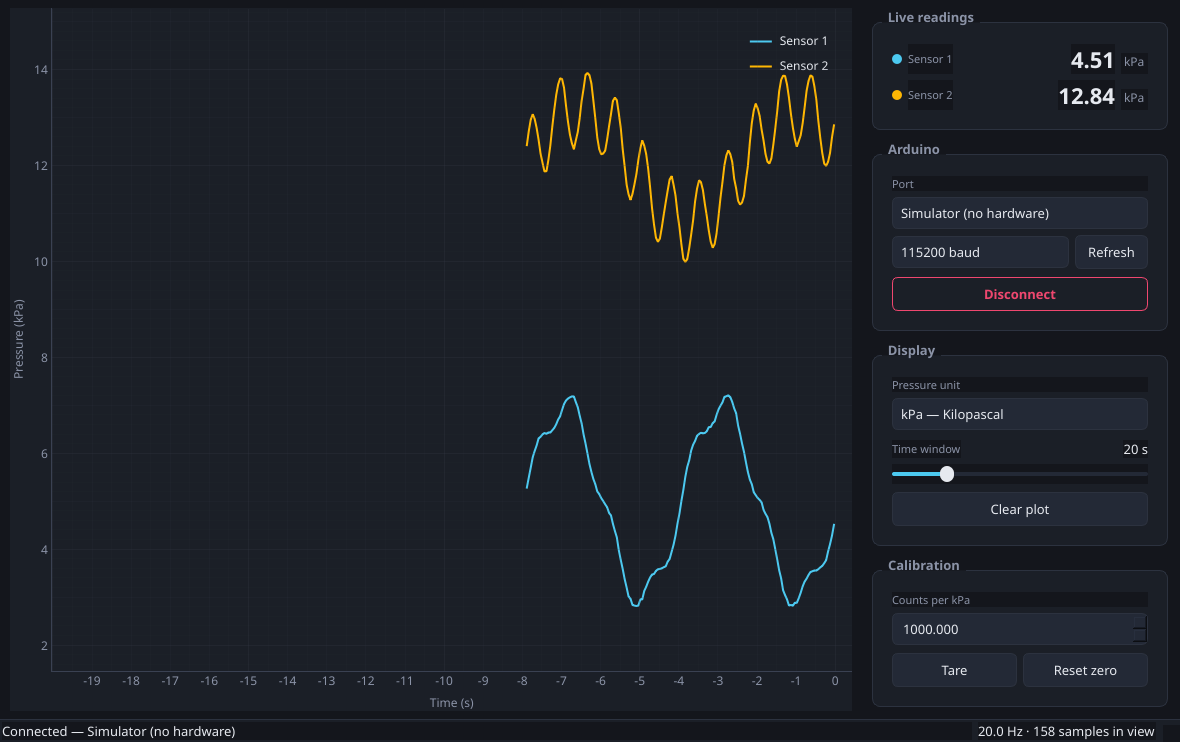
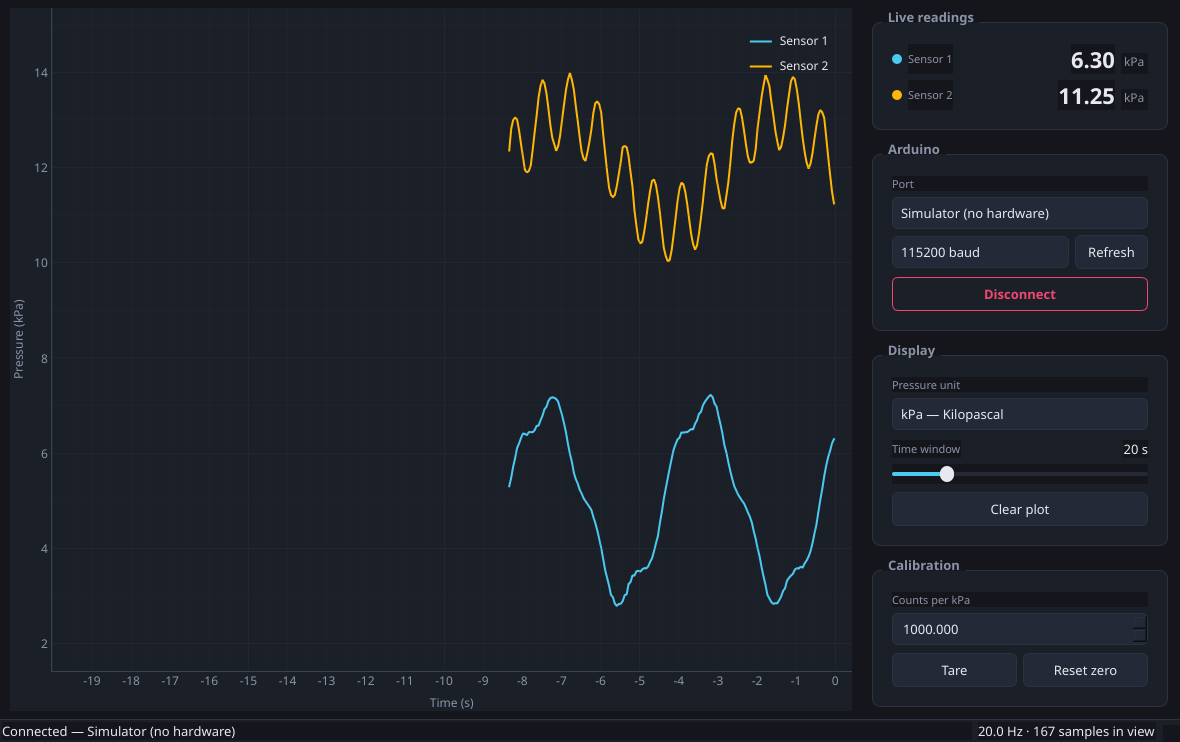
Fix axis labelling and y range across units
pyqtgraph's automatic SI prefixes turned the axis title into 'kkPa', and the
minimum y span was applied in display units, so in atmospheres its padding
swamped the signal.

diff --git a/pressure_monitor/ui/main_window.py b/pressure_monitor/ui/main_window.py
@@ -17,7 +17,7 @@ from ..buffers import RollingBuffer
 from ..calibration import Calibration
 from ..reader import SampleReader
 from ..sources import available_ports, create_source
-from ..units import DEFAULT_UNIT
+from ..units import DEFAULT_UNIT, PressureUnit
 from .control_panel import (
     DEFAULT_BAUD_RATE,
     DEFAULT_WINDOW_S,
@@ -156,8 +156,8 @@ class MainWindow(QMainWindow):
         self._set_state("Zero point reset to raw counts")
         self._redraw()
 
-    def _on_unit_changed(self, unit: object) -> None:
-        self._plot.set_unit(unit)  # type: ignore[arg-type]
+    def _on_unit_changed(self, unit: PressureUnit) -> None:
+        self._plot.set_unit(unit)
         self._redraw()
 
     def _on_window_changed(self, seconds: int) -> None:
@@ -196,8 +196,7 @@ class MainWindow(QMainWindow):
             )
         )
         self._metrics_label.setText(
-            f"{self._buffer.sample_rate():.1f} Hz · {len(self._buffer)} samples "
-            f"in view"
+            f"{self._buffer.sample_rate():.1f} Hz · {len(self._buffer)} samples in view"
         )
 
     def _set_state(self, text: str) -> None:
@@ -247,7 +246,7 @@ class MainWindow(QMainWindow):
         settings.setValue("window/geometry", self.saveGeometry())
         settings.setValue("window/splitter", self._splitter.saveState())
 
-    def closeEvent(self, event) -> None:  # noqa: N802 - Qt naming
+    def closeEvent(self, event) -> None:
         self._timer.stop()
         self._reader.stop()
         self._save_settings()

diff --git a/pressure_monitor/ui/plot_panel.py b/pressure_monitor/ui/plot_panel.py
@@ -50,7 +50,7 @@ class PlotPanel(QWidget):
                 autoDownsample=True,
                 clipToView=True,
             )
-            for name, color in zip(CHANNEL_NAMES, theme.CHANNEL_COLORS)
+            for name, color in zip(CHANNEL_NAMES, theme.CHANNEL_COLORS, strict=True)
         ]
 
         layout = QVBoxLayout(self)
@@ -85,7 +85,7 @@ class PlotPanel(QWidget):
             self._unit.from_kpa(channel_1_kpa),
             self._unit.from_kpa(channel_2_kpa),
         )
-        for curve, values in zip(self._curves, channels):
+        for curve, values in zip(self._curves, channels, strict=True):
             curve.setData(elapsed, values)
         self._update_y_range(channels)
 
@@ -106,6 +106,6 @@ class PlotPanel(QWidget):
             # Easing towards the target avoids the axis twitching every frame.
             self._y_range = tuple(  # type: ignore[assignment]
                 current + (goal - current) * Y_RANGE_SMOOTHING
-                for current, goal in zip(self._y_range, target)
+                for current, goal in zip(self._y_range, target, strict=True)
             )
         self._plot.setYRange(*self._y_range, padding=0)

diff --git a/pressure_monitor/calibration.py b/pressure_monitor/calibration.py
@@ -32,6 +32,7 @@ class Calibration:
         return self.counts_per_kpa
 
     def to_kpa(self, raw: float, channel: int) -> float:
+        """Convert one count, or a whole array of them, to kilopascals."""
         return (raw - self.offsets[channel]) / self.span
 
     def tare(self, raw_values: tuple[float, float]) -> None:
